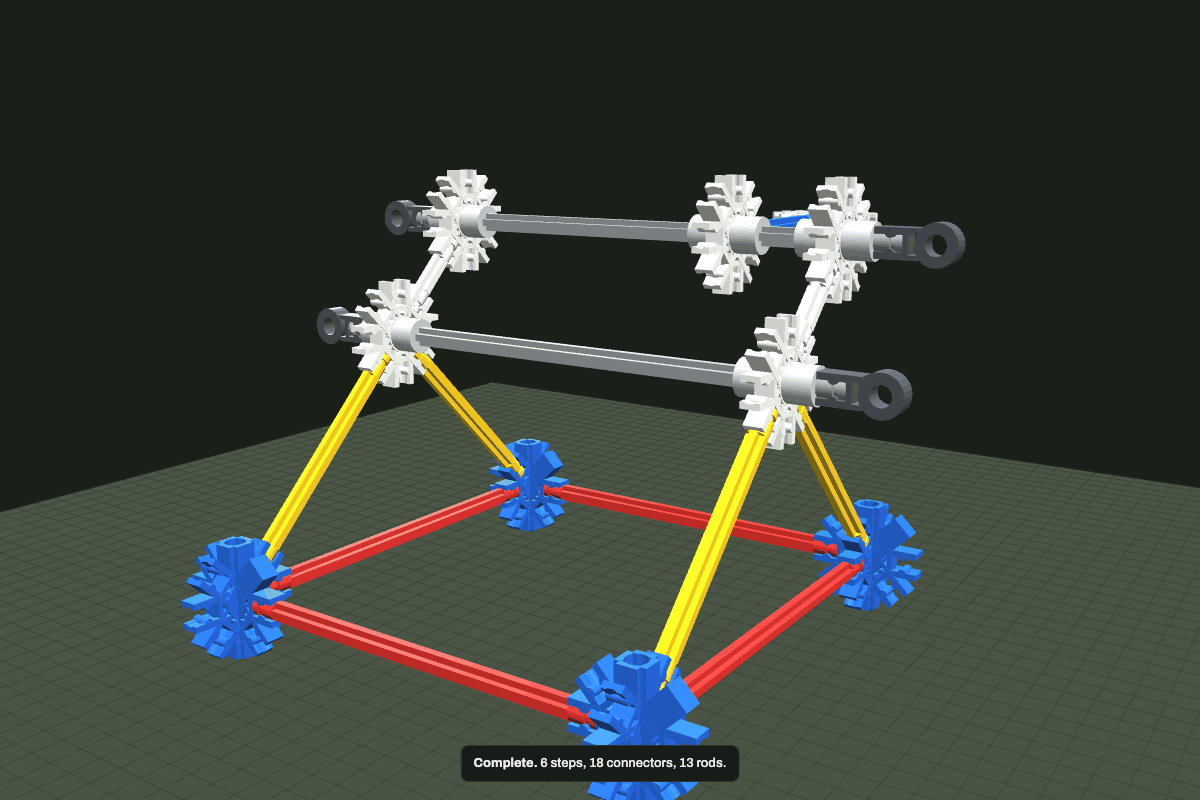
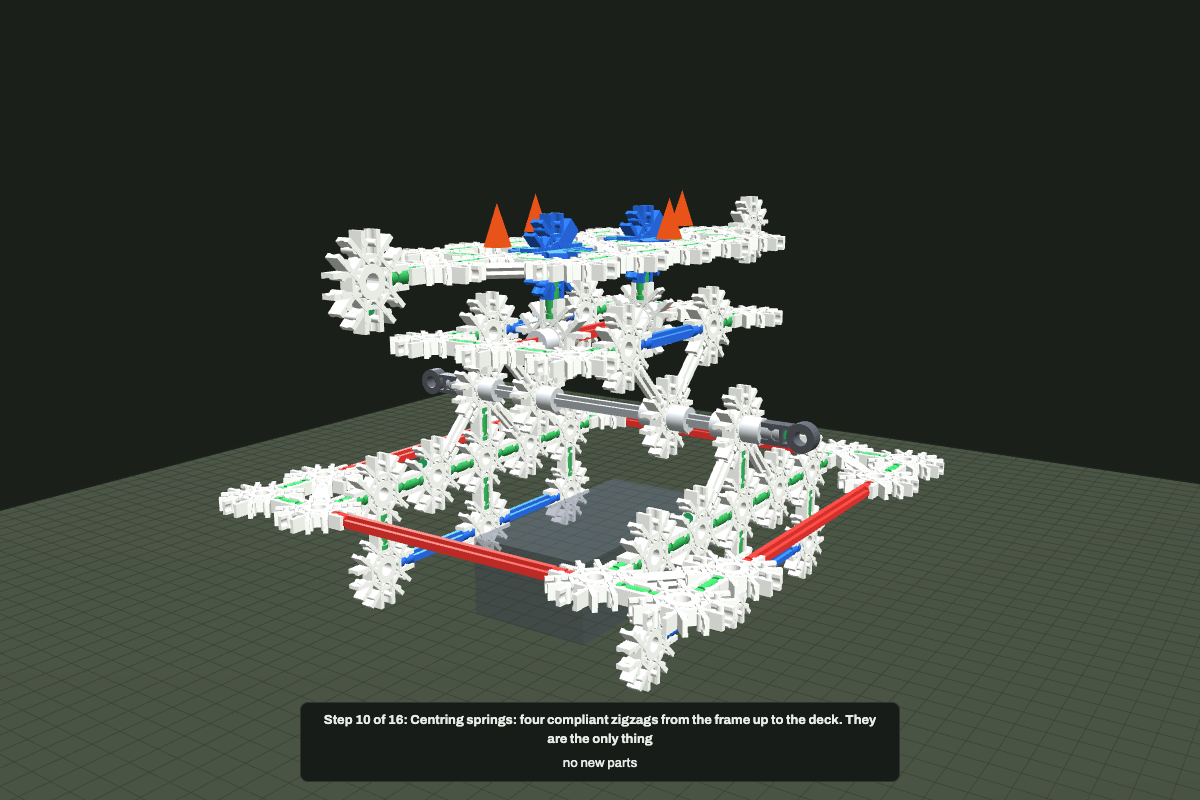
log: do not swallow option values into the message
Claude-Session: https://claude.ai/code/session_013KTm4kiAmFdhUc1PiV5y4R

Changed region(s): [[0.1542, 0.1875, 0.925, 1.0], [0.9558, 0.5938, 1.0, 0.625]]

diff --git a/cli.js b/cli.js
@@ -15,9 +15,14 @@ if (file === "live") {                                   // hot-reloading bench 
 }
 if (file === "log") {                                    // post to a running live server
   var http = require("http");
-  var pos = args.filter(function (a) { return !isOpt(a); });
-  var text = pos.slice(1).join(" ");
   function o(f, d) { var i = args.indexOf(f); return i >= 0 ? args[i + 1] : d; }
+  var words = [], skip = false;                          // drop --flags AND the value each one takes
+  args.slice(args.indexOf("log") + 1).forEach(function (a) {
+    if (skip) { skip = false; return; }
+    if (isOpt(a)) { skip = true; return; }
+    words.push(a);
+  });
+  var text = words.join(" ");
   var payload = { kind: o("--kind", "note"), text: text };
   var img = o("--image");
   if (img) {
